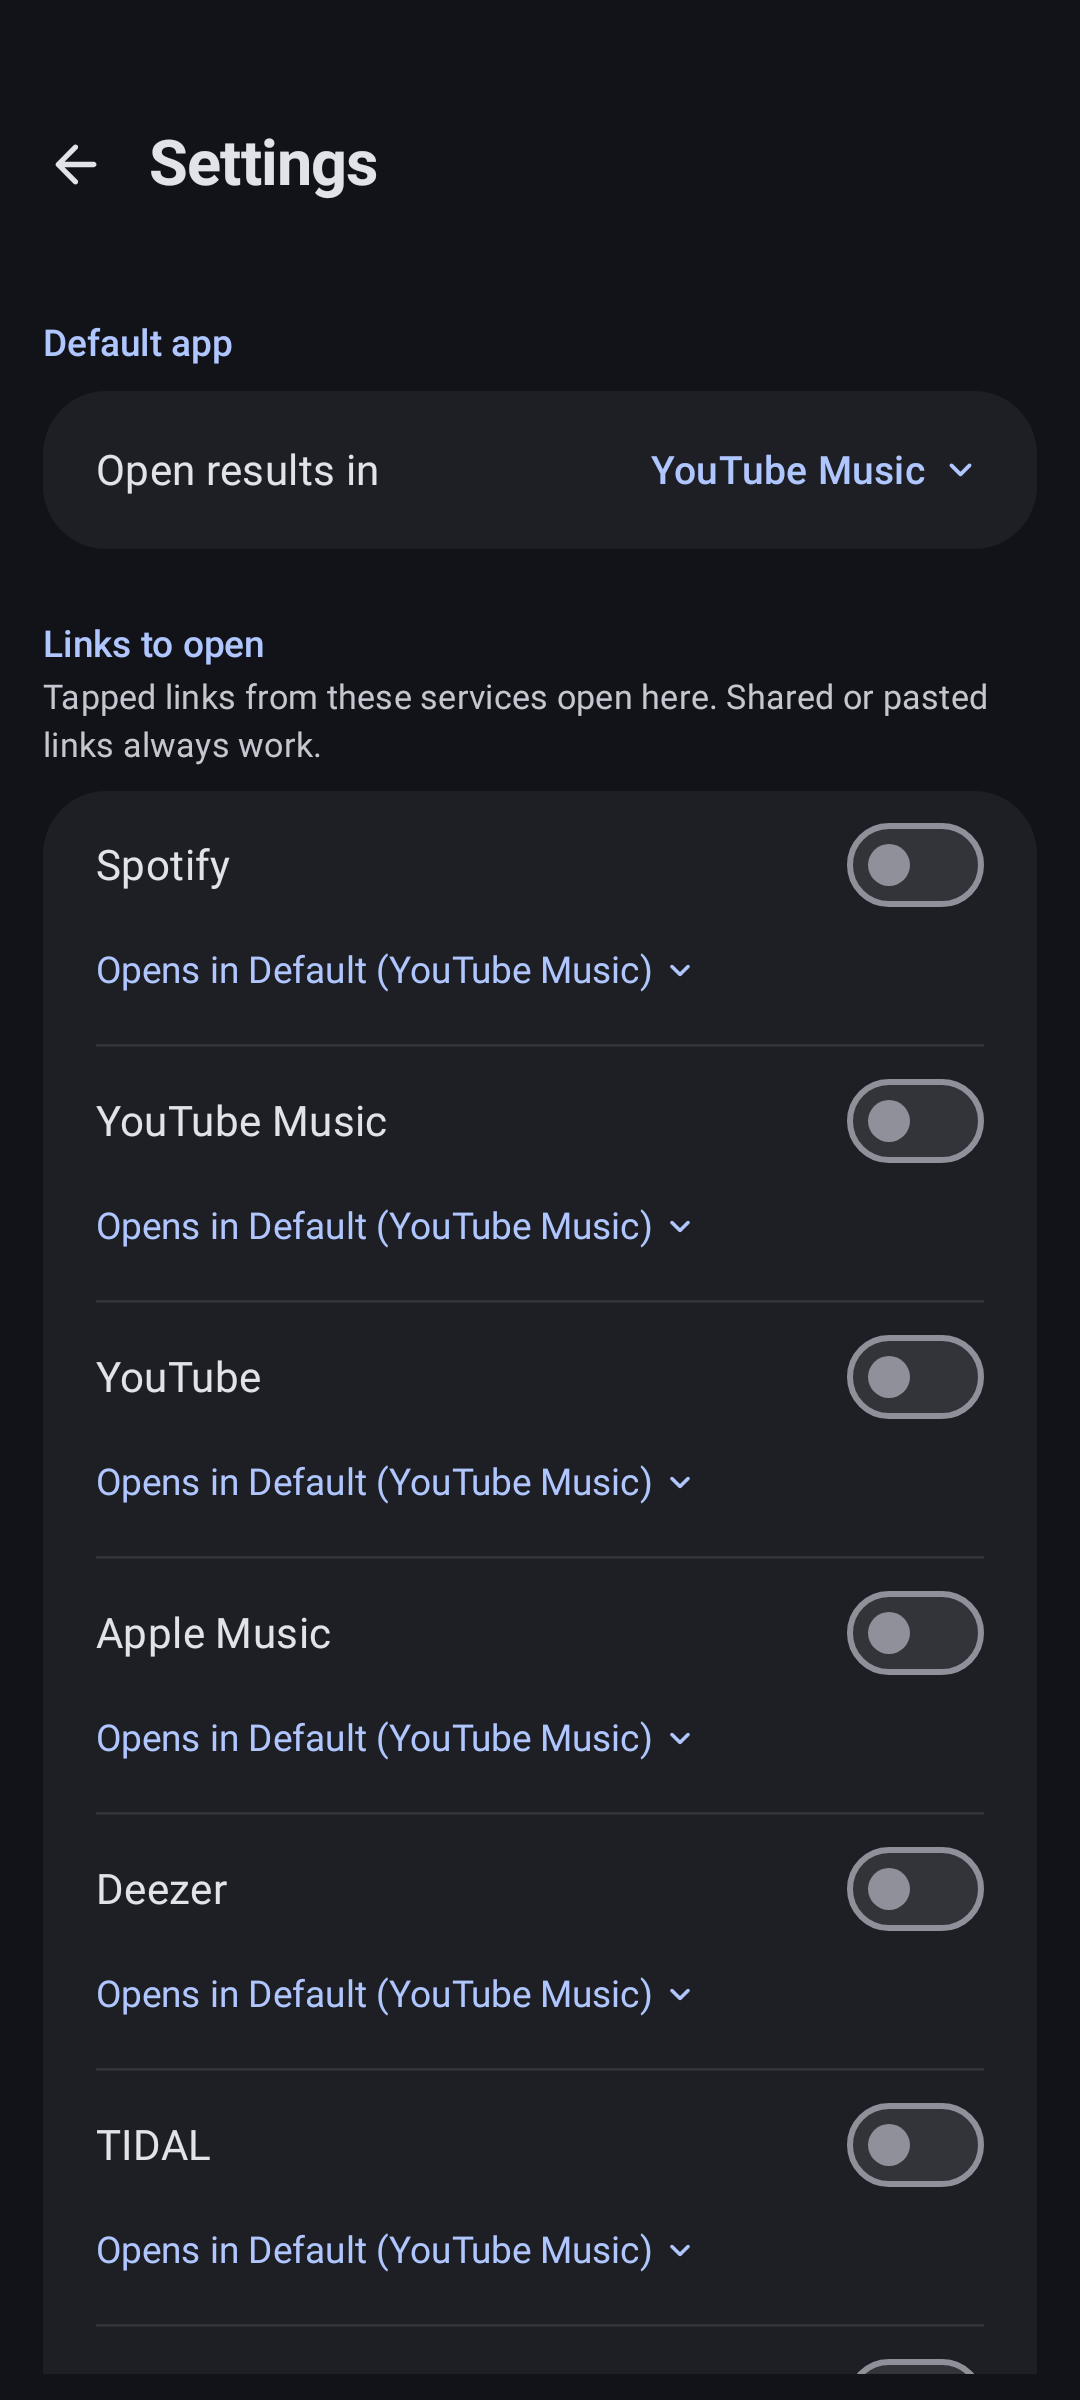
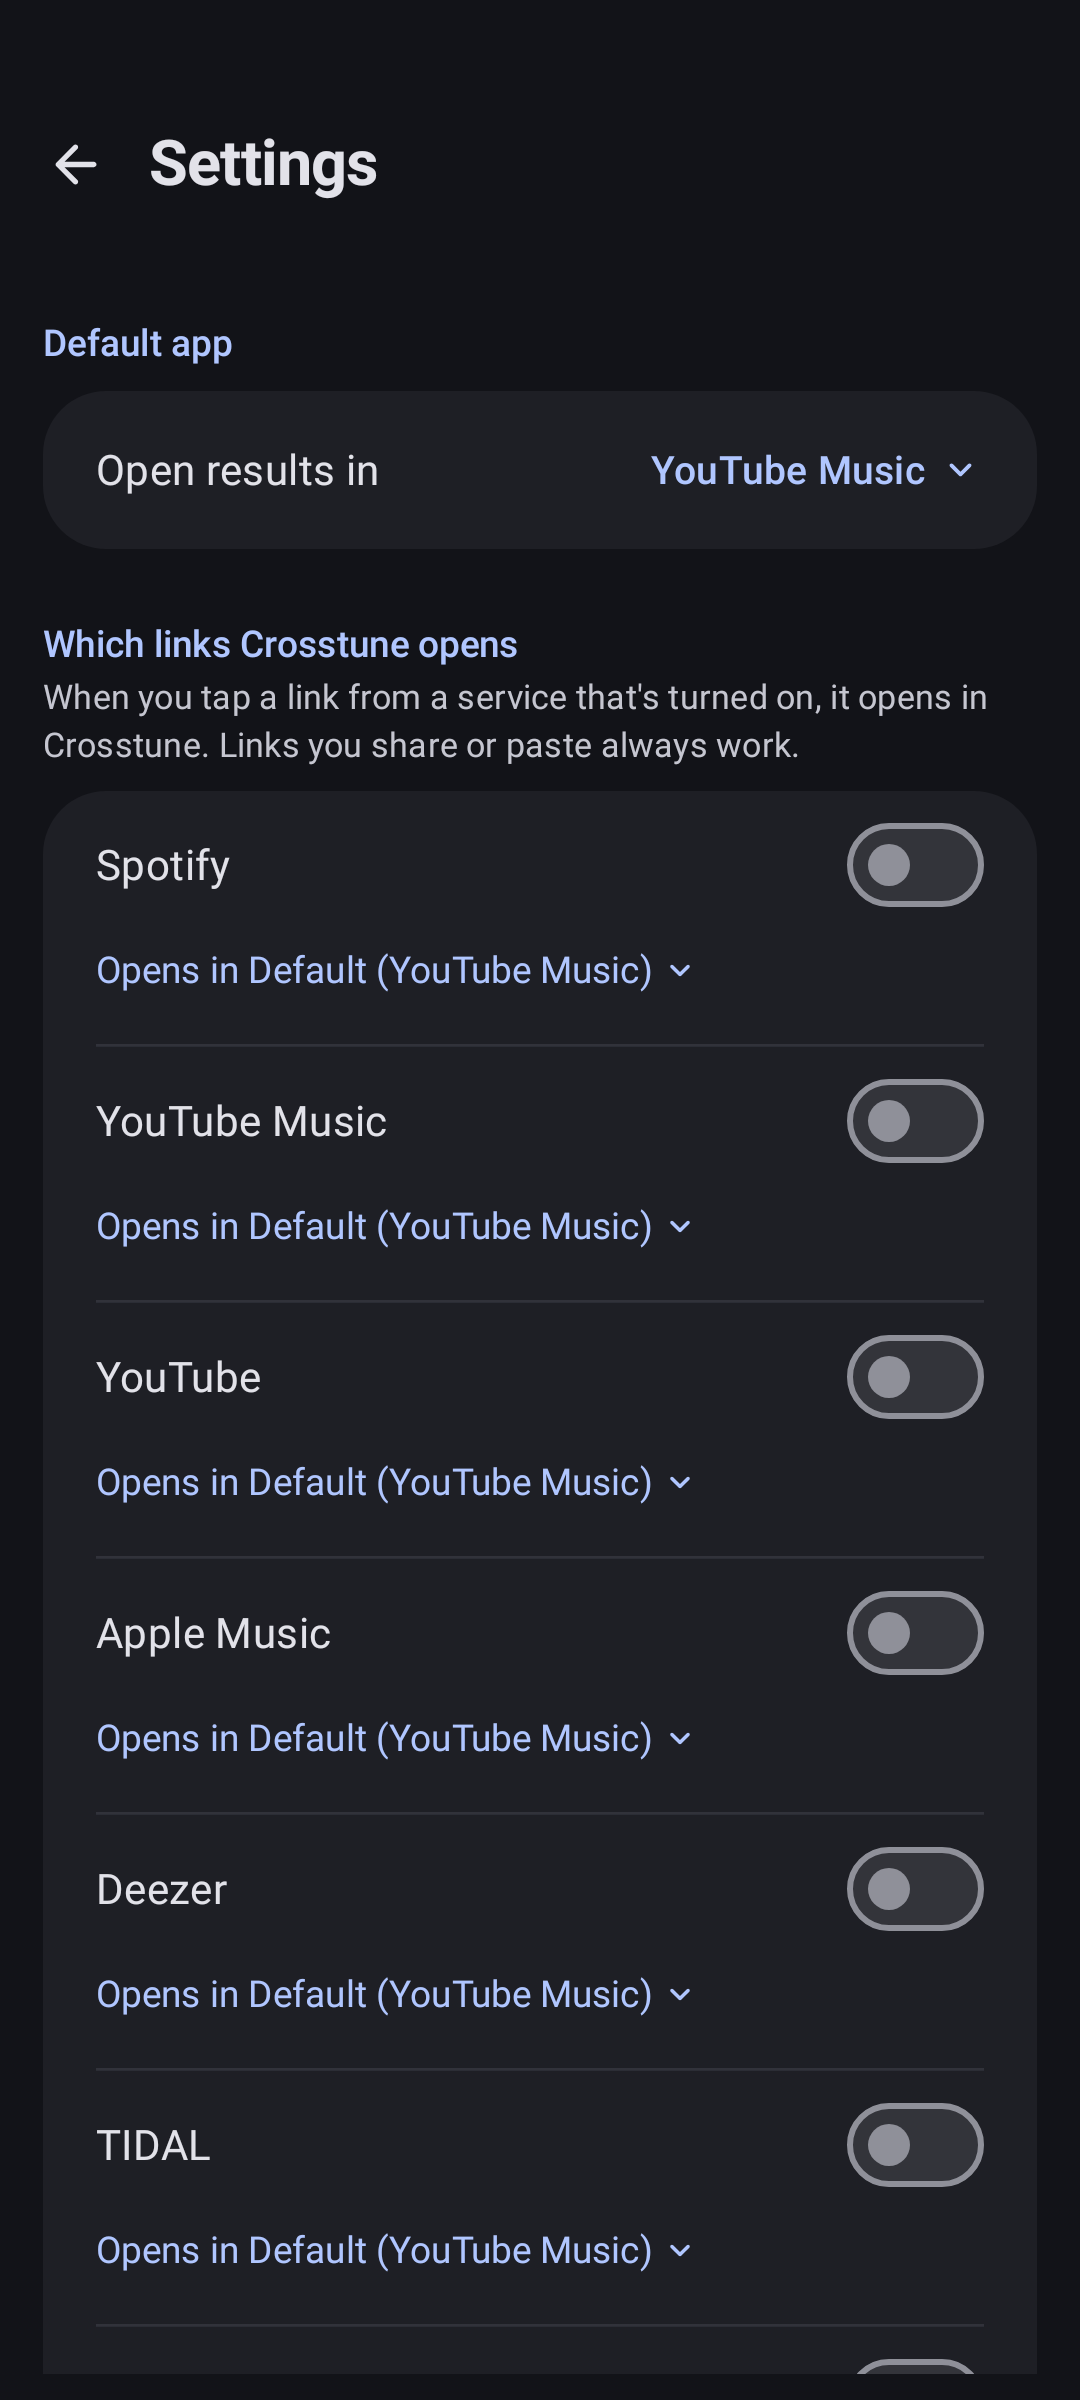
Write the app and README text as plain, complete sentences
The shortened copy had become cryptic ("Any music link, in your app.",
"8 in, 9 out", "Exact matches"). Keep it short, but say what actually
happens in full sentences:

- Tagline: "Opens music links in the music app you use."
- Setup explains what each step does and that it can be changed later.
- Settings name the behavior: "Ask which app to use", "Open the exact
  song", "Which links Crosstune opens".
- Errors say what went wrong and what to do.
- README: plain intro with an example, spelled-out setup steps,
  feature labels that describe the feature.
- Re-render the screenshots with the new text.

Claude-Session: https://claude.ai/code/session_01UwmGSws7oHHVCmfWNCybLv

Changed region(s): [[0.0306, 0.25, 0.9167, 0.3125]]

diff --git a/README.md b/README.md
@@ -1,8 +1,8 @@
 # Crosstune
 
-**Tap any music link. It opens in *your* app.**
+**Crosstune opens music links in the music app you use.**
 
-Friend sends Spotify, you use YouTube Music? Crosstune opens the same song there. Songs, albums, artists, playlists.
+Example: a friend sends you a Spotify link, but you use YouTube Music. Tap the link and Crosstune opens the same song in YouTube Music. It works for songs, albums, artists and playlists.
 
 <p align="center">
   <img src="screenshots/home.png" alt="A Spotify link resolved to its song, ready to open in YouTube Music" width="200">
@@ -21,20 +21,20 @@ Friend sends Spotify, you use YouTube Music? Crosstune opens the same song there
 
 ## 🚀 Set up (1 minute)
 
-1. Open Crosstune. Pick your links and your app.
-2. Tap **Open link settings** → **Add link** → select the links shown.
-3. Done. Tap a music link anywhere.
+1. Open Crosstune. Choose which services' links it should open, and which app you listen in.
+2. Tap **Open link settings**, then **Add link**, and turn on the links Crosstune lists.
+3. Done. Now tap a music link anywhere and it opens in your app.
 
-Also works by pasting or sharing a link to Crosstune.
+You can also paste a link into Crosstune, or share a link to it from any app.
 
 ## What it does
 
-- **8 in, 9 out**: Reads Spotify, YouTube Music, YouTube, Apple Music, Deezer, TIDAL, SoundCloud, Bandcamp. Opens in any of them, or Amazon Music.
-- **Per-service rules**: e.g. YouTube → YouTube Music, everything else → Apple Music.
-- **Ask every time**: Pick an app for each link.
-- **Exact matches**: Apple Music and Deezer open the exact item, not a search.
-- **Custom apps**: Any search URL, like `https://example.com/search?q={query}`.
-- **Fast access**: One-tap paste, recent links, Quick Settings tile, launcher shortcut.
+- **Works with 9 services**: reads links from Spotify, YouTube Music, YouTube, Apple Music, Deezer, TIDAL, SoundCloud and Bandcamp, and opens them in any of those or in Amazon Music.
+- **A different app per service**: for example, YouTube links go to YouTube Music and everything else goes to Apple Music.
+- **Ask which app to use**: choose an app every time you share a link.
+- **Open the exact song**: Apple Music and Deezer can open the song itself instead of a search.
+- **Your own apps**: add any app or website that has a search page, like `https://example.com/search?q={query}`.
+- **Shortcuts**: paste with one tap, reopen recent links, or use the Quick Settings tile and the home screen shortcut.
 
 ## Supported links
 
@@ -49,20 +49,20 @@ Also works by pasting or sharing a link to Crosstune.
 | SoundCloud | Artists, tracks, sets, `on.soundcloud.com` |
 | Bandcamp | Tracks, albums |
 
-Not supported: Amazon Music links, YouTube playlists and channels. Their pages don't show song details.
+Crosstune can't read Amazon Music links, YouTube playlists or YouTube channels, because their pages don't show the song details. It can still open songs in Amazon Music.
 
 ## 🛠 Something wrong?
 
-- **Links open somewhere else?** Turn the service on in Crosstune **Settings**. Then Android **Settings → Apps → Crosstune → Open by default → Add link**.
-- **Opened in the original app?** Crosstune can't convert that page (like a SoundCloud feed), so it passes it on.
-- **Got a search, not the song?** Most apps have no public lookup. Turn on **Exact matches** for Apple Music and Deezer.
+- **Links still open in another app or the browser?** Turn the service on in Crosstune's **Settings**. Then open Android's **Settings → Apps → Crosstune → Open by default**, tap **Add link**, and turn on that service's links.
+- **A link opened in its own app instead?** Crosstune can't read some pages, like a SoundCloud feed, so it hands them to that service's app.
+- **You got a search instead of the song?** Most apps have no public way to find a song without an account, so Crosstune searches for it. For Apple Music and Deezer, turn on **Open the exact song**.
 
 ## Privacy
 
 - No accounts, analytics or ads.
 - History stays on your device.
-- To read a link's title, artist and cover, Crosstune asks only that link's service (public page or key-less API).
-- With **Exact matches** on, the title and artist also go to [Apple's](https://performance-partners.apple.com/search-api) or [Deezer's](https://developers.deezer.com/api) search API.
+- To show a link's title, artist and cover, Crosstune only asks the service the link comes from, using its public page or public API.
+- With **Open the exact song** on, the title and artist also go to [Apple's](https://performance-partners.apple.com/search-api) or [Deezer's](https://developers.deezer.com/api) search API.
 
 <details>
 <summary><b>Verify your download</b></summary>
